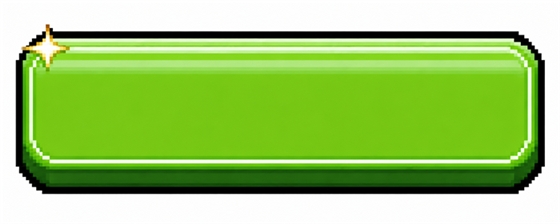
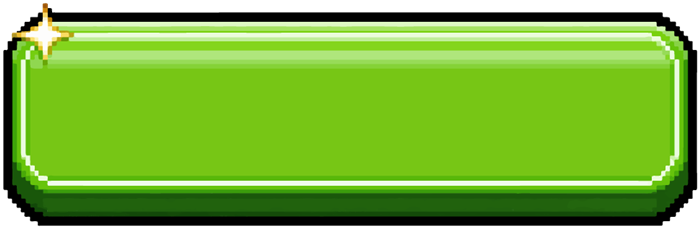
bar_party: remade transparent pick assets + fullscreen fit + BGM crossfade
- game choice 재작업본(투명 배경) 시트를 타이틀+프레임 5개로 분할해 교체 (키잉 제거)
- 어떤 화면 크기에서도 배경/플레이 캔버스가 가득 차게 (wrap 560px 캡 제거, 캔버스 5:6 비율 반응형)
- PICK A GAME 타이틀 위로 + 부제목 바로 아래 + 선택 영역 확대
- START 누르면 타이틀 BGM 페이드아웃 + 플레이 BGM 페이드인 (800ms 크로스페이드)

diff --git a/bar_party.html b/bar_party.html
@@ -14,7 +14,7 @@
   html,body{ height:100%; background:var(--bg); overflow:hidden; }
   body{ font-family:'Press Start 2P', monospace; color:var(--ink); display:flex; align-items:center; justify-content:center;
     touch-action:manipulation; -webkit-user-select:none; user-select:none; background:radial-gradient(120% 90% at 50% -10%, #1a2016 0%, #0d0f0c 60%); }
-  #wrap{ position:relative; width:100vw; height:100vh; max-width:560px; max-height:100vh; margin:0 auto; overflow:hidden; }
+  #wrap{ position:relative; width:100vw; height:100vh; height:100dvh; overflow:hidden; }
   .screen{ position:absolute; inset:0; display:flex; flex-direction:column; align-items:center; justify-content:center; gap:14px; padding:56px 16px 22px; text-align:center; }
   .hidden{ display:none !important; }
   .kr{ font-family:-apple-system,"Segoe UI","Malgun Gothic",system-ui,sans-serif; }
@@ -80,8 +80,12 @@
   .sbtn{ font-family:'Press Start 2P',monospace; font-size:9px; line-height:1.3; color:var(--ink); background:var(--panel); border:2px solid #333; box-shadow:0 3px 0 #000; padding:12px 6px; cursor:pointer; text-align:center; }
   .sbtn:active{ transform:translateY(2px); box-shadow:0 1px 0 #000; } .sbtn .cat{ display:block; font-size:7px; color:var(--pine-light); margin-bottom:5px; letter-spacing:1px; }
   .flash{ position:absolute; inset:0; background:#fff; opacity:0; pointer-events:none; z-index:9; }
-  /* 프리푸어 마스터 */
-  #fpcv{ height:min(56vh,555px); max-width:94vw; border:3px solid #000; box-shadow:0 6px 0 rgba(0,0,0,.45); background:#000; touch-action:none; image-rendering:pixelated; }
+  /* 게임 캔버스: 남는 화면을 최대한 채움 (5:6 비율 유지) */
+  #fpcv{ width:min(96vw, max(240px, calc((100vh - 230px) * 0.8333))); width:min(96vw, max(240px, calc((100dvh - 230px) * 0.8333)));
+    height:auto; border:3px solid #000; box-shadow:0 6px 0 rgba(0,0,0,.45); background:#000; touch-action:none; image-rendering:pixelated; }
+  #game{ padding:46px 8px 14px; gap:10px; }
+  #game .mghint{ font-size:11px; line-height:1.4; max-width:min(90vw,560px); }
+  #game #stage{ gap:10px; }
   /* 비시바시 타이틀 */
   #title{ background:#0d0f0c url('assets/bp_title_bg.png') center/cover no-repeat; position:relative; }
   #decoCv{ position:absolute; inset:0; width:100%; height:100%; z-index:0; pointer-events:none; }
@@ -109,8 +113,8 @@
     aspect-ratio:2.5/1; background:transparent center/100% 100% no-repeat; cursor:pointer; line-height:1.35;
     letter-spacing:.3px; image-rendering:pixelated; text-shadow:1px 1px 0 rgba(0,0,0,.5); transition:transform .06s; padding:0 12px; }
   .sbtn2:active{ transform:translateY(3px) scale(.98); }
-  #sandbox{ background:#0d0f0c url('assets/pick_bg.png') center/cover no-repeat; gap:6px; padding-top:44px; }
-  #sandbox .sbwrap{ width:min(500px,97vw); max-height:none; flex:1 1 auto; min-height:0; }
+  #sandbox{ background:#0d0f0c url('assets/pick_bg.png') center/cover no-repeat; gap:4px; padding:10px 10px 14px; }
+  #sandbox .sbwrap{ width:min(640px,97vw); max-height:none; flex:1 1 auto; min-height:0; gap:10px; }
   #backBtn{ position:absolute; top:10px; right:10px; z-index:30; width:42px; height:42px;
     font-family:'Press Start 2P',monospace; font-size:15px; color:#e8e6dd; background:rgba(0,0,0,0.6);
     border:3px solid #444; box-shadow:0 3px 0 #000; cursor:pointer; }
@@ -151,9 +155,9 @@
   <button id="backBtn" class="hidden">✕</button>
 
   <div id="sandbox" class="screen hidden">
-    <img id="pickTitle" alt="PICK A GAME!" style="width:min(430px,98vw);image-rendering:pixelated;display:none">
+    <img id="pickTitle" alt="PICK A GAME!" style="width:min(480px,95vw);image-rendering:pixelated;display:none">
     <div class="mgtitle" id="pickTitleTxt">🍸 PICK A GAME!</div>
-    <img id="pickSub" alt="SET YOUR RECORDS!" style="width:min(280px,72vw);image-rendering:pixelated;display:none;margin-top:-22px">
+    <img id="pickSub" alt="SET YOUR RECORDS!" style="width:min(290px,72vw);image-rendering:pixelated;display:none;margin-top:-4px">
     <div class="mghint" id="pickSubTxt">Every game keeps its own TOP 5 — go set some records!</div>
     <div class="sbwrap" id="sbwrap"></div>
   </div>
@@ -194,22 +198,33 @@
   const stage=$('stage');
   function show(id){ ['title','sandbox','turn','game','roundResult','final','rank','setting'].forEach(s=>$(s).classList.toggle('hidden', s!==id));
     const bb=$('backBtn'); if(bb) bb.classList.toggle('hidden', id==='title'||id==='roundResult');
-    if(id==='title') playTitleBgm(); }
+    if(id==='title') playTitleBgm(true); }
   let runToken=0;
   // ── BGM: 타이틀 1곡 루프 / 플레이 3곡 연속 루프 ──
   const BGM={ cur:null, name:'', vol:parseFloat(localStorage.getItem('bp_vol')||'0.6') };
   function bgmVol(){ return window.__mute?0:BGM.vol; }
-  function stopBgm(){ if(BGM.cur){ try{ BGM.cur.pause(); }catch(e){} } BGM.cur=null; BGM.name=''; }
-  function playTitleBgm(){ if(BGM.name==='title') return; stopBgm();
-    const a=new Audio('assets/bgm_title.mp3'); a.loop=true; a.volume=bgmVol();
+  function bgmFade(a,to,ms,done){ if(!a){ if(done)done(); return; }
+    const from=a.volume, t0=performance.now();
+    (function st(){ const k=Math.min(1,(performance.now()-t0)/ms);
+      try{ a.volume=Math.max(0,Math.min(1,from+(to-from)*k)); }catch(e){}
+      if(k<1) setTimeout(st,50); else if(done) done(); })(); }
+  function stopBgm(fadeMs){ const old=BGM.cur; BGM.cur=null; BGM.name='';
+    if(!old) return;
+    if(fadeMs) bgmFade(old,0,fadeMs,()=>{ try{ old.pause(); }catch(e){} });
+    else { try{ old.pause(); }catch(e){} } }
+  function playTitleBgm(xf){ if(BGM.name==='title') return; stopBgm(xf?800:0);
+    const a=new Audio('assets/bgm_title.mp3'); a.loop=true; a.volume=xf?0:bgmVol();
     BGM.cur=a; BGM.name='title';
-    a.play().catch(()=>{ if(BGM.cur===a){ BGM.cur=null; BGM.name=''; } }); }
+    a.play().then(()=>{ if(xf&&BGM.cur===a) bgmFade(a,bgmVol(),800); })
+      .catch(()=>{ if(BGM.cur===a){ BGM.cur=null; BGM.name=''; } }); }
   let ptIdx=Math.floor(Math.random()*3);
-  function playGameBgm(){ if(BGM.name==='play') return; stopBgm(); BGM.name='play';
+  function playGameBgm(xf){ if(BGM.name==='play') return; stopBgm(xf?800:0); BGM.name='play';
+    let first=!!xf;
     const step=()=>{ if(BGM.name!=='play') return;
-      const a=new Audio('assets/bgm_play'+(ptIdx+1)+'.mp3'); a.volume=bgmVol();
+      const a=new Audio('assets/bgm_play'+(ptIdx+1)+'.mp3'); a.volume=first?0:bgmVol();
       a.onended=()=>{ ptIdx=(ptIdx+1)%3; step(); };
-      BGM.cur=a; a.play().catch(()=>{ if(BGM.cur===a){ BGM.cur=null; BGM.name=''; } }); };
+      BGM.cur=a; a.play().then(()=>{ if(first&&BGM.cur===a){ first=false; bgmFade(a,bgmVol(),800); } })
+        .catch(()=>{ if(BGM.cur===a){ BGM.cur=null; BGM.name=''; } }); };
     step(); }
   function bgmApplyVol(){ if(BGM.cur) BGM.cur.volume=bgmVol(); }
   const bgmKick=()=>{ if(!$('title').classList.contains('hidden')) playTitleBgm();
@@ -256,7 +271,7 @@
   let pn=1; // 솔로 플레이 (인원 선택 제거)
   window.__mute=localStorage.getItem('bp_mute')==='1';
 
-  $('startBtn').onclick=()=>{ ac(); beep(700,0.1); buildSandbox(); show('sandbox'); }; // START = 게임 리스트
+  $('startBtn').onclick=()=>{ ac(); beep(700,0.1); playGameBgm(true); buildSandbox(); show('sandbox'); }; // START = 게임 리스트, BGM 크로스페이드
   function startTurn(){ round=0; const p=players[cur]; $('turnWho').textContent=p.name; $('turnMsg').textContent=(players.length>1?'Got the phone? Press!':'Press when ready'); show('turn'); $('hud').classList.add('hidden'); }
   $('turnBtn').onclick=()=>{ beep(700,0.1); if(mode==='fp') fpNext(); else nextRound(); };
   function hud(){ const p=players[cur]; $('hudWho').textContent=p.name; $('hudRd').textContent='ROUND '+(round+1)+'/'+ROUNDS; $('hudSc').textContent=p.score; $('hud').classList.remove('hidden'); }
@@ -329,8 +344,9 @@
   // (리스트의 HOME 버튼 제거 — 전역 ✕ 버튼이 대체)
   const FR={ data:{}, loading:false };
   function frLoad(){ if(FR.loading) return; FR.loading=true;
+    // 프레임은 일러스트 재작업본(투명 배경) — 키잉 없이 원본 그대로
     ['amber','blue','green','red','purple'].forEach(k=>{ const im=new Image();
-      im.onload=()=>{ try{ FR.data[k]=fpKeyUI(im,700).toDataURL(); }catch(e){} }; im.src='assets/fr_'+k+'.png'; }); }
+      im.onload=()=>{ FR.data[k]='assets/fr_'+k+'.png'; }; im.src='assets/fr_'+k+'.png'; }); }
   const FR_ORDER=['amber','blue','green','red','purple'];
   const FR_COMP={ amber:'#1d3fa0', blue:'#f08a1d', green:'#b3125e', red:'#22d9c8', purple:'#ffd23e' }; // 프레임 보색 폰트
   function buildSandbox(){ const w=$('sbwrap'); w.innerHTML=''; w.style.gridTemplateColumns='1fr 1fr'; // 2열
@@ -1183,7 +1199,7 @@
     fpLoad(); qtLoad();
     stage.innerHTML='<div class="mgtitle">QUICK TAB</div>'
       +'<div class="mghint">Add up all 7 tabs ($) in your head! Faster = more points, wrong answer = -20</div>'
-      +'<canvas id="fpcv" width="400" height="480" style="height:min(46vh,470px)"></canvas>'
+      +'<canvas id="fpcv" width="400" height="480" style="width:min(80vw, max(200px, calc((100dvh - 420px) * 0.8333)))"></canvas>'
       +'<div id="qtPad" style="display:grid;grid-template-columns:repeat(3,1fr);gap:6px;width:min(290px,78vw)"></div>';
     const cv=$('fpcv'), ctx=cv.getContext('2d'), pad=$('qtPad');
     const CUSTS=shuffle(['c1','c2','c3','c4','c5','c6']).concat(['c7']); // 마지막은 진상 손님
@@ -2179,11 +2195,12 @@
       g2.putImageData(dd,0,0);
       const el=$('titleLogo'); el.src=c.toDataURL(); el.style.display='block';
       const h=$('titleH1'); if(h) h.style.display='none'; }catch(e){} }; L.src='assets/bp_title_logo.png';
-    // 게임 선택 화면 타이틀/리본
-    [['pick_title','pickTitle','pickTitleTxt',330],['pick_sub','pickSub','pickSubTxt',290]].forEach(([src,imgId,txtId,mw])=>{
-      const P2=new Image(); P2.onload=()=>{ try{ const c=fpKeyUI(P2,640);
-        const el=$(imgId); el.src=c.toDataURL(); el.style.display='block';
-        $(txtId).style.display='none'; }catch(e){} }; P2.src='assets/'+src+'.png'; });
+    // 게임 선택 화면 타이틀(투명 재작업본 그대로) / 리본(흰 배경이라 키잉)
+    { const T=new Image(); T.onload=()=>{ const el=$('pickTitle'); el.src='assets/pick_title.png';
+        el.style.display='block'; $('pickTitleTxt').style.display='none'; }; T.src='assets/pick_title.png'; }
+    { const P2=new Image(); P2.onload=()=>{ try{ const c=fpKeyUI(P2,640);
+        const el=$('pickSub'); el.src=c.toDataURL(); el.style.display='block';
+        $('pickSubTxt').style.display='none'; }catch(e){} }; P2.src='assets/pick_sub.png'; }
     // 버튼 이미지 (키잉 후 텍스트 버튼과 교체)
     [['bp_btn_start','startImg','startBtn'],['bp_btn_rank','rankImg','rankBtn'],['bp_btn_set','setImg','setBtn']].forEach(([src,imgId,btnId])=>{
       const B=new Image(); B.onload=()=>{ try{ const c=fpKeyUI(B,560);
